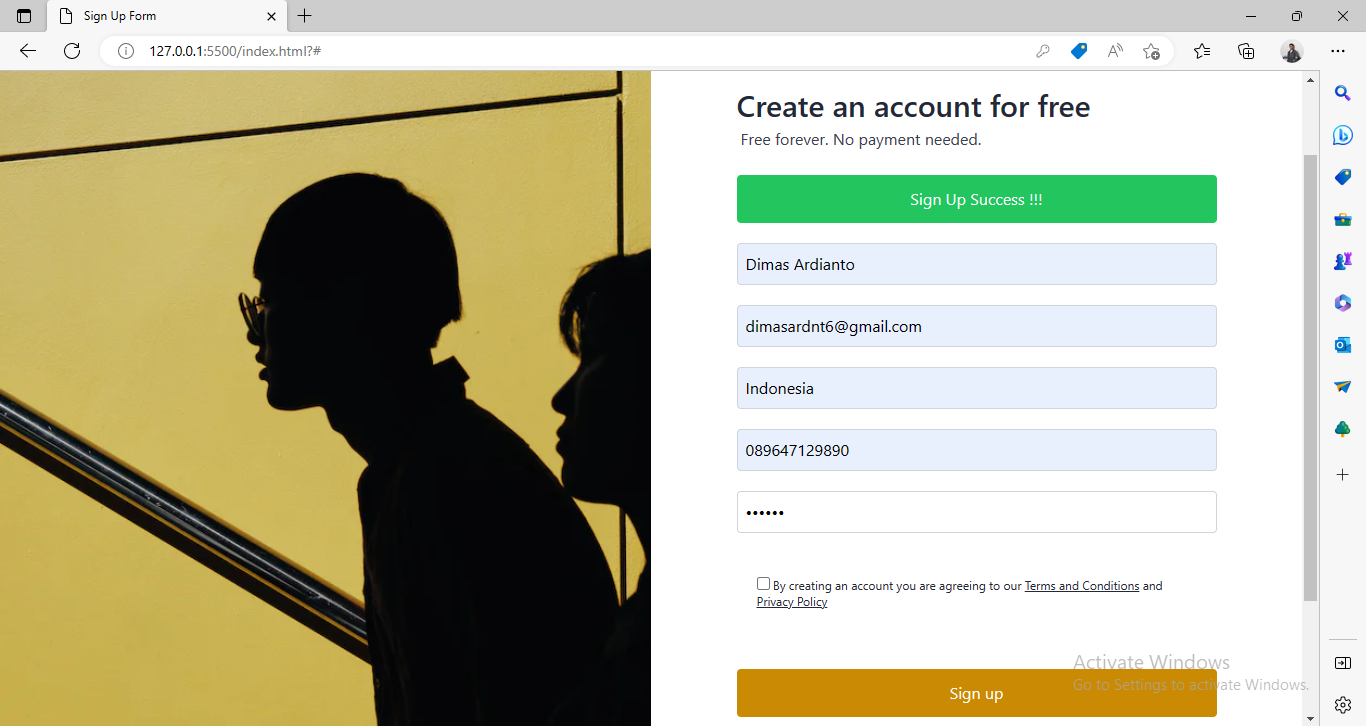
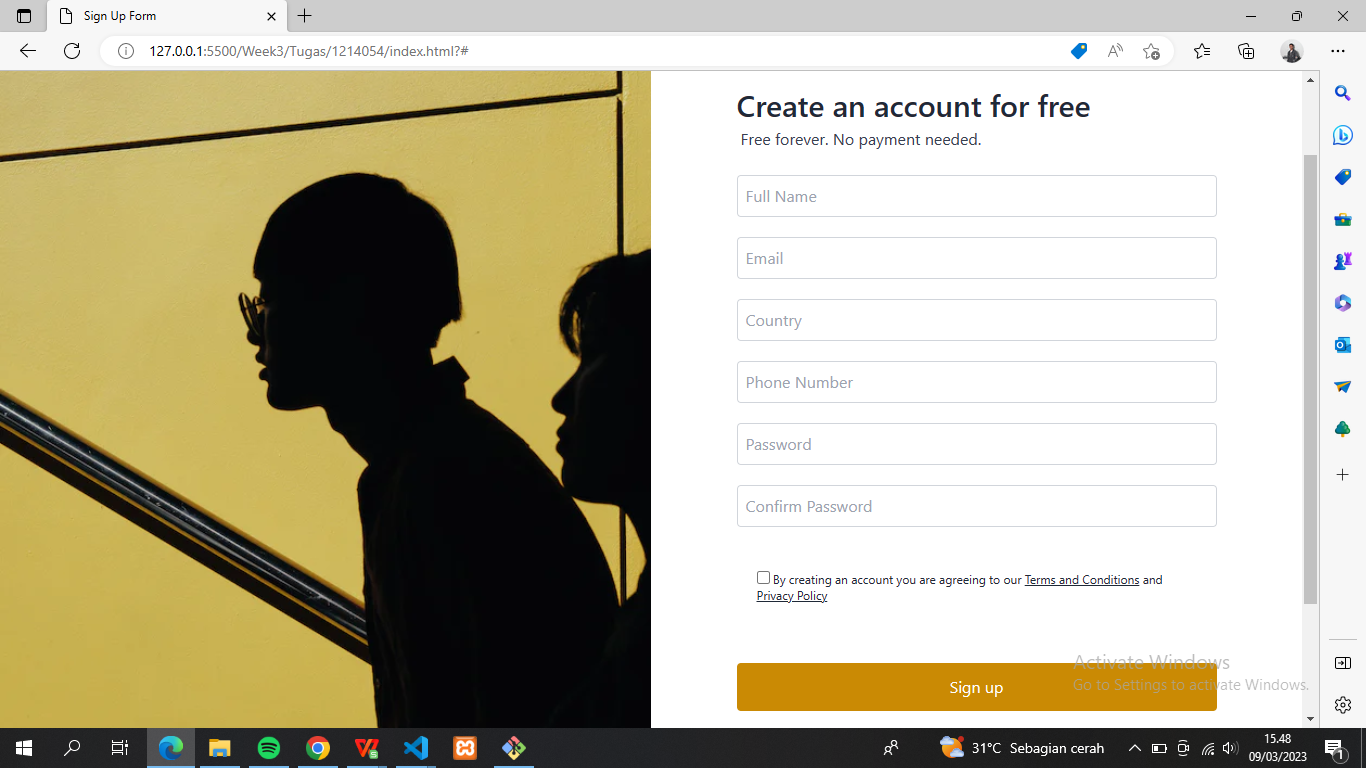
3-2B-1214054-DimasArdianto

diff --git a/Week3/Tugas/1214054/index.html b/Week3/Tugas/1214054/index.html
@@ -53,23 +53,26 @@
             <div id="pesan" class="mt-5">
                     
             </div>
-            <form action="#" class="p-0">
+            <div class="p-0">
                 <div class="mt-5">
 
                     <!-- <label for="email" class="sc-bqyKva ePvcBv">Email</label> -->
-                    <input id="fullname" type="text" class="block w-full p-2 border rounded border-gray-300 focus:outline-none focus:ring-1 focus:ring-gray-400 focus:border-transparent " placeholder="Full Name">
+                    <input id="fullname" type="text" class="block w-full p-2 border rounded border-gray-300 focus:outline-none focus:ring-1 focus:ring-gray-400 focus:border-transparent " placeholder="Full Name" value="">
                 </div>
                 <div class="mt-5">
-                    <input id="email" type="text" class="block w-full p-2 border rounded border-gray-300 focus:outline-none focus:ring-1 focus:ring-gray-400 focus:border-transparent " placeholder="Email">
+                    <input id="email" type="text" class="block w-full p-2 border rounded border-gray-300 focus:outline-none focus:ring-1 focus:ring-gray-400 focus:border-transparent " placeholder="Email" value="">
                 </div>
                 <div class="mt-5">
-                    <input id="country" type="text" class="block w-full p-2 border rounded border-gray-300 focus:outline-none focus:ring-1 focus:ring-gray-400 focus:border-transparent " placeholder="Country">
+                    <input id="country" type="text" class="block w-full p-2 border rounded border-gray-300 focus:outline-none focus:ring-1 focus:ring-gray-400 focus:border-transparent " placeholder="Country" value="">
                 </div>
                 <div class="mt-5">
-                    <input id="phone_number" type="text" class="block w-full p-2 border rounded border-gray-300 focus:outline-none focus:ring-1 focus:ring-gray-400 focus:border-transparent " placeholder="Phone Number">
+                    <input id="phone_number" type="text" class="block w-full p-2 border rounded border-gray-300 focus:outline-none focus:ring-1 focus:ring-gray-400 focus:border-transparent " placeholder="Phone Number" value="">
                 </div>
                 <div class="mt-5">
-                    <input id="password" type="password" class="block w-full p-2 border rounded border-gray-300 focus:outline-none focus:ring-1 focus:ring-gray-400 focus:border-transparent  " placeholder="Password">
+                    <input id="password" type="password" class="block w-full p-2 border rounded border-gray-300 focus:outline-none focus:ring-1 focus:ring-gray-400 focus:border-transparent  " placeholder="Password" value="">
+                </div>
+                <div class="mt-5">
+                    <input id="confirmpassword" type="password" class="block w-full p-2 border rounded border-gray-300 focus:outline-none focus:ring-1 focus:ring-gray-400 focus:border-transparent  " placeholder="Confirm Password" value="">
                 </div>
 
                 <div class="mt-6 block p-5 text-sm md:font-sans text-xs text-gray-800">
@@ -82,9 +85,9 @@
                     </span>
                 </div>
                 <div class="mt-10">
-                    <input onclick="PushButton()" id="tombol" type="submit" value="Sign up" class="py-3 bg-yellow-600 text-white w-full rounded hover:bg-yellow-700">
+                    <input onclick="PushButton()"  id="tombol" type="submit" value="Sign up" class="py-3 bg-yellow-600 text-white w-full rounded hover:bg-yellow-700">
                 </div>
-            </form>
+            </div>
             <a class="" href="/login" data-test="Link"><span class="block  p-5 text-center text-gray-800  text-xs ">Already have an account?</span></a>
         </div>
 

diff --git a/Week3/Tugas/1214054/ws.js b/Week3/Tugas/1214054/ws.js
@@ -1,4 +1,4 @@
-function PostSignUp(fullname,email,country,phone_number,password){
+function PostSignUp(fullname,email,country,phone_number,password,confirmpassword){
     var myHeaders = new Headers();
     myHeaders.append("Login", "dimas123");
     myHeaders.append("Content-Type", "application/json");
@@ -8,7 +8,8 @@ function PostSignUp(fullname,email,country,phone_number,password){
       "email": email,
       "country": country,
       "phone_number": phone_number,
-      "password": password
+      "password": password,
+      "confirmpassword" : confirmpassword
     });
 
 var requestOptions = {
@@ -30,9 +31,22 @@ function PushButton(){
     country=document.getElementById("country").value;
     phone_number=document.getElementById("phone_number").value;
     password=document.getElementById("password").value;
-    PostSignUp(fullname,email,country,phone_number,password);
+    confirmpassword=document.getElementById("confirmpassword").value;
+    if(!fullname,!email,!country,!phone_number,!password,!confirmpassword){
+      alert("Field tidak boleh kosong")
+    }else if(confirmpassword != password){
+      alert("Password salah")
+    }else{
+      PostSignUp(fullname,email,country,phone_number,password,confirmpassword);
+    }
   }
   
 function GetResponse(){ 
     document.getElementById("pesan").innerHTML = "<p class='py-3 bg-green-500 text-white w-full rounded text-center'>Sign Up Success !!!</p>";
+    document.getElementById("fullname").value = "";
+    document.getElementById("email").value = "";
+    document.getElementById("country").value = "";
+    document.getElementById("phone_number").value = "";
+    document.getElementById("password").value = "";
+    document.getElementById("confirmpassword").value = "";
 }
